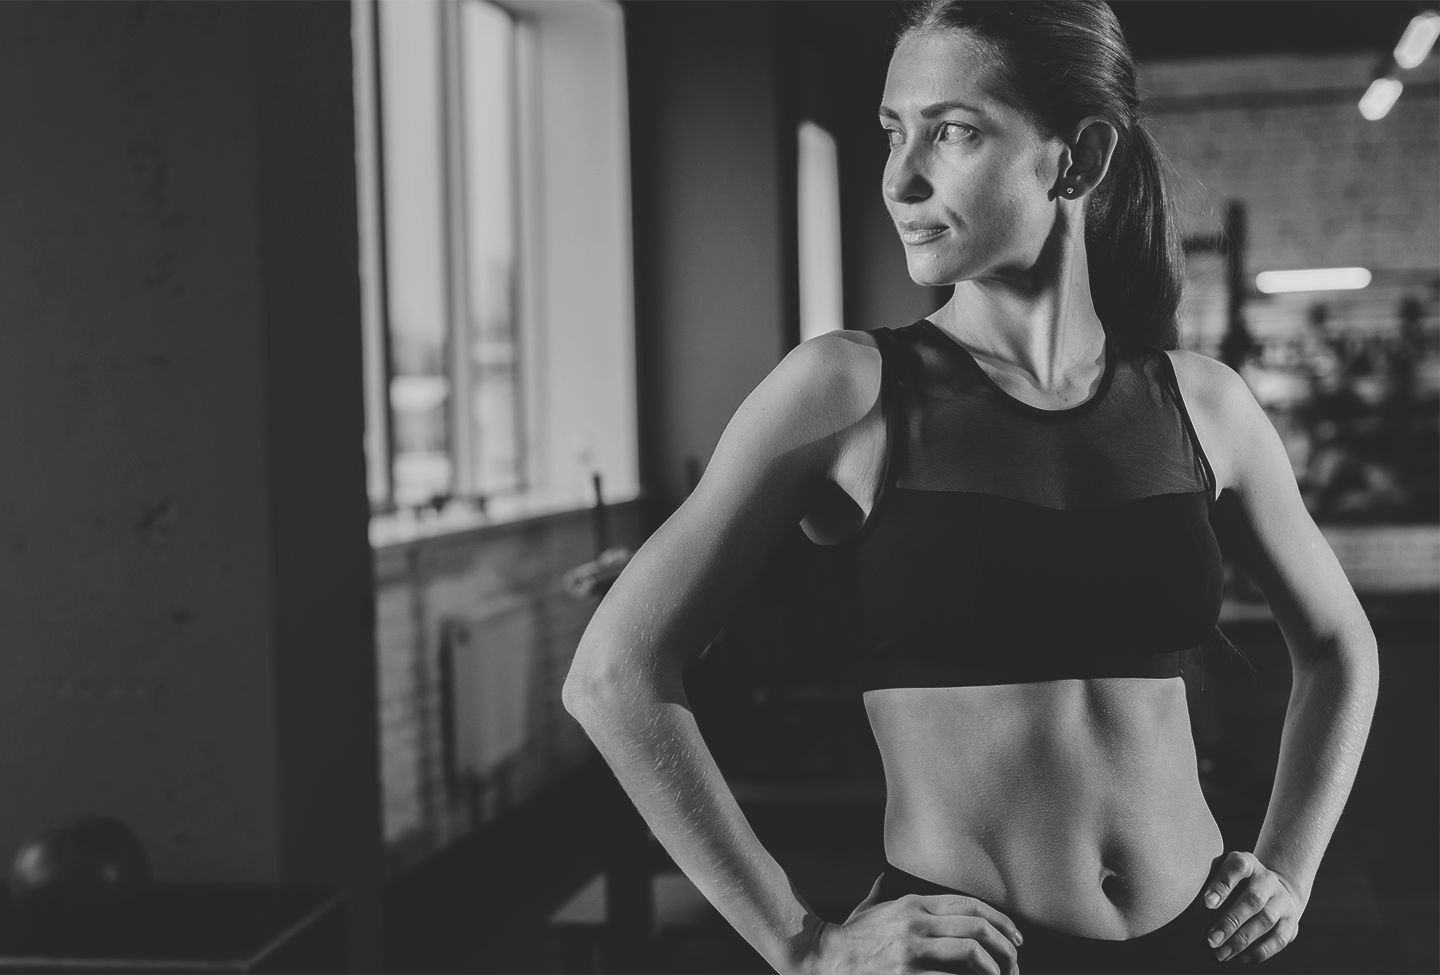
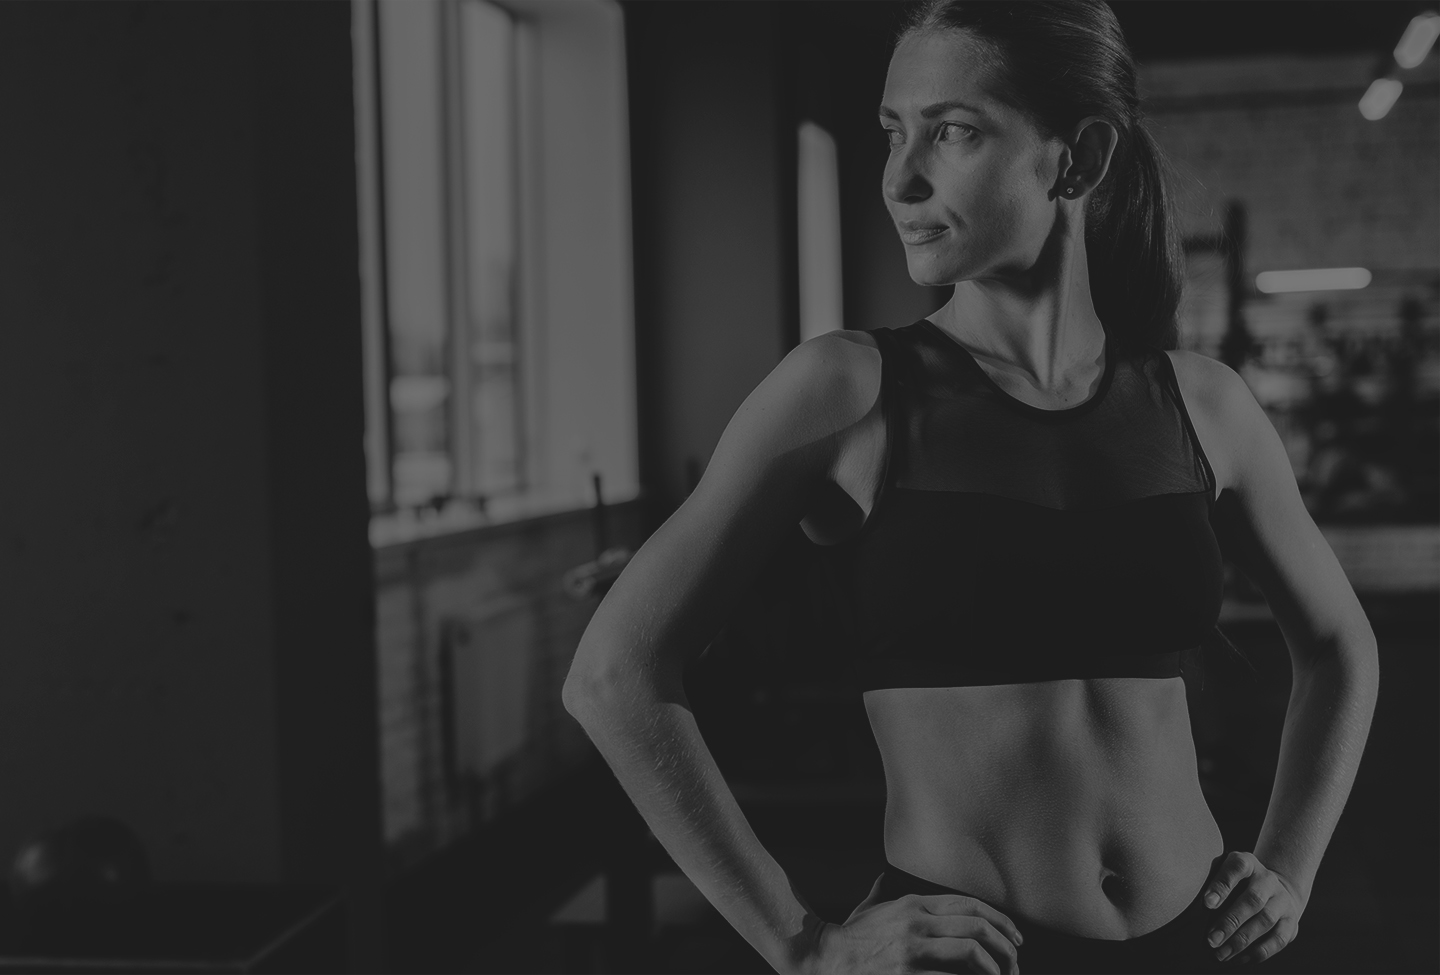
section2 added

diff --git a/index.html b/index.html
@@ -66,6 +66,53 @@
                 </ul>
             </div>
         </section>
+        <section class="section2">
+            <h2 class="hidden">section 2</h2>
+            <div class="section2_wrapper">
+                <div class="section2_textbox">
+                    <div class="section2_textobx_title">PRIORITIES GO FIRST</div>
+                    <div class="section2_textbox_description">Lorem ipsum dolor sit amet, consectetur adipisicing elit, sed do eiusmod tempor incididunt ut labore et dolore magna aliqua. Ut enim ad minim veniam, quis nostrud exercitation ullamco laboris nisi ut</div>
+                </div>
+                <ul class="section2_list">
+                    <li>
+                        <p class="section2_list_title">COMPANY</p>
+                        <p class="section2_list_description">“Lorem ipsum dolor sit amet, consectetur adipisicing elit sed do”.</p>
+                        <p class="section2_list_name">ADAM JOHNS</p>
+                        <p class="section2_lsit_position">account manager</p>
+                    </li>
+                    <li>
+                        <p class="section2_list_title">COMPANY</p>
+                        <p class="section2_list_description">“Lorem ipsum dolor sit amet, consectetur adipisicing elit sed do”.</p>
+                        <p class="section2_list_name">ADAM JOHNS</p>
+                        <p class="section2_lsit_position">account manager</p>
+                    </li>
+                    <li>
+                        <p class="section2_list_title">COMPANY</p>
+                        <p class="section2_list_description">“Lorem ipsum dolor sit amet, consectetur adipisicing elit sed do”.</p>
+                        <p class="section2_list_name">ADAM JOHNS</p>
+                        <p class="section2_lsit_position">account manager</p>
+                    </li>
+                    <li>
+                        <p class="section2_list_title">COMPANY</p>
+                        <p class="section2_list_description">“Lorem ipsum dolor sit amet, consectetur adipisicing elit sed do”.</p>
+                        <p class="section2_list_name">ADAM JOHNS</p>
+                        <p class="section2_lsit_position">account manager</p>
+                    </li>
+                    <li>
+                        <p class="section2_list_title">COMPANY</p>
+                        <p class="section2_list_description">“Lorem ipsum dolor sit amet, consectetur adipisicing elit sed do”.</p>
+                        <p class="section2_list_name">ADAM JOHNS</p>
+                        <p class="section2_lsit_position">account manager</p>
+                    </li>
+                    <li>
+                        <p class="section2_list_title">COMPANY</p>
+                        <p class="section2_list_description">“Lorem ipsum dolor sit amet, consectetur adipisicing elit sed do”.</p>
+                        <p class="section2_list_name">ADAM JOHNS</p>
+                        <p class="section2_lsit_position">account manager</p>
+                    </li>
+                </ul>
+            </div>
+        </section>
     </div>
     <footer></footer>
     <script src="js/main.js"></script>

diff --git a/css/style.css b/css/style.css
@@ -62,7 +62,7 @@ header{
     margin-right: 0;
 }
 .main_menu li a{
-    color: #3ea2d8;
+    color: #00c0ff;
     text-decoration: none;
 }
 .header_content{
@@ -126,9 +126,9 @@ header{
     height: 55px;
     border: none;
     border-radius: 23px;
-    color: #3ea2d8;
+    color: #00c0ff;
     font-size: 1.5em;
-    font-weight: 500;
+    font-weight: 600;
     cursor: pointer;
 }
 .content{
@@ -141,8 +141,6 @@ header{
     position: relative;
     float: left;
     width: 100%;
-    left: 50%;
-    transform: translateX(-50%);
     background-color: black;
 }
 .section1_wrapper1{
@@ -161,7 +159,7 @@ header{
     margin: 170px 0 170px 0;
     text-align: center;
     width: 74%;
-    color: #3ea2d8;
+    color: #00c0ff;
 /*     background-color: white; */
 }
 .section1_textbox_title{
@@ -209,4 +207,70 @@ header{
     font-weight: 300;
     line-height: 1.5em;
     letter-spacing: 1px;
+}
+.section2{
+    position: relative;
+    float: left;
+    width: 100%;
+    background: url(../img/main_img2.jpg) no-repeat 50% 0;
+    background-size: cover;
+}
+.section2_wrapper{
+    position: relative;
+    float: left;
+    width: 1200px;
+    left: 50%;
+    transform: translateX(-50%);
+    padding: 95px 0 135px;
+}
+.section2_textbox{
+    position: relative;
+    float: left;
+    left: 50%;
+    transform: translateX(-50%);
+    width: 80%;
+    text-align: center;
+    color: #00c0ff;
+    margin-bottom: 90px;
+}
+.section2_textobx_title{
+    font-size: 1.5em;
+    font-weight: 500;
+    margin-bottom: 55px;
+}
+.section2_textbox_description{
+    font-size: 1.125em;
+    font-weight: 500;
+    line-height: 1.75em;
+    letter-spacing: 1px;
+}
+.section2_list{
+    position: relative;
+    float: left;
+    width: 100%;
+    color: white;
+    display: grid;
+    grid-template-columns: 1fr 1fr 1fr;
+    gap: 35px;
+    text-align: center;
+}
+.section2_list li{
+    padding: 60px;
+    line-height: 1.25em;
+    background-color: rgba(27, 27, 27, 0.75);
+}
+.section2_list_title{
+    font-weight: 500;
+    margin-bottom: 65px;
+}
+.section2_list_description{
+    font-weight: 300;
+    margin: 0 auto 65px;
+    width: 180px;
+}
+.section2_list_name{
+    font-weight: 500;
+}
+.section2_lsit_position{
+    font-weight: 300;
 }
